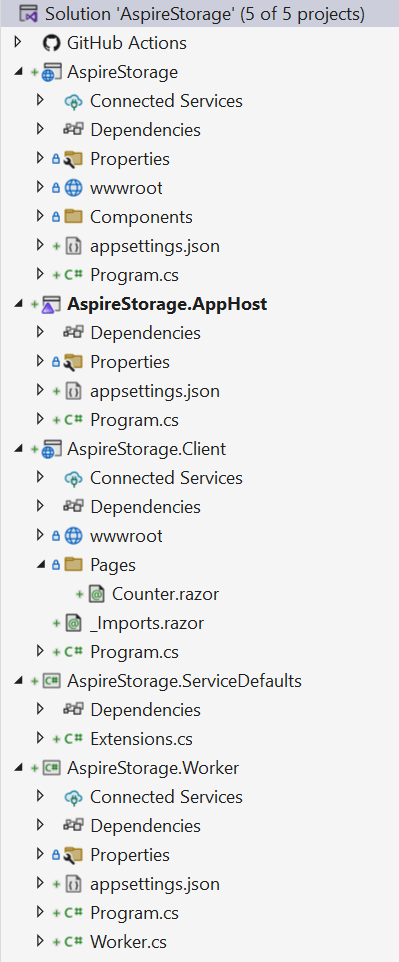
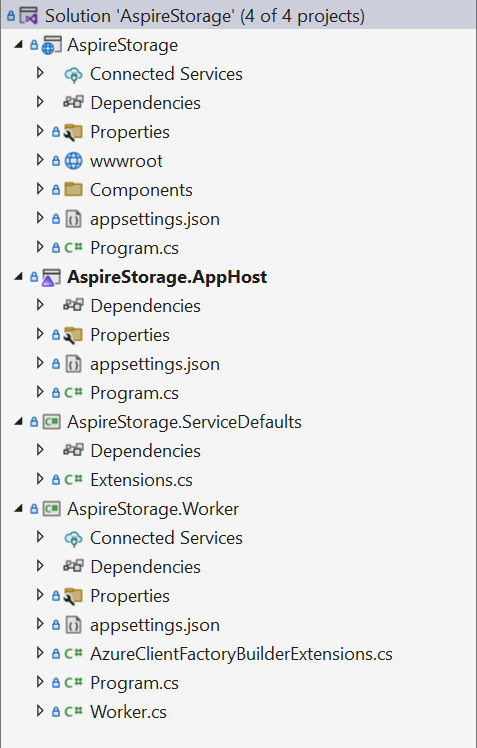
More updates, let's see where we are

Changed region(s): [[0.0, 0.0, 1.0, 1.0]]

diff --git a/docs/storage/snippets/tutorial/AspireStorage/AspireStorage/Program.cs b/docs/storage/snippets/tutorial/AspireStorage/AspireStorage/Program.cs
@@ -1,6 +1,11 @@
-using AspireStorage.Components;
+using AspireStorage.Components;
+using Azure.Storage.Blobs;
+using Azure.Storage.Queues;
 
 var builder = WebApplication.CreateBuilder(args);
+
+builder.AddAzureBlobService("BlobConnection");
+builder.AddAzureQueueService("QueueConnection");
 
 builder.AddServiceDefaults();
 
@@ -16,8 +21,22 @@ app.MapDefaultEndpoints();
 if (!app.Environment.IsDevelopment())
 {
     app.UseExceptionHandler("/Error", createScopeForErrors: true);
-    // The default HSTS value is 30 days. You may want to change this for production scenarios, see https://aka.ms/aspnetcore-hsts.
+    // The default HSTS value is 30 days. You may want to change this for production
+    // scenarios, see https://aka.ms/aspnetcore-hsts.
     app.UseHsts();
+}
+else
+{
+    // In development, create the blob container and queue if they don't exist.
+    var blobService = app.Services.GetRequiredService<BlobServiceClient>();
+    var docsContainer = blobService.GetBlobContainerClient("fileuploads");
+
+    await docsContainer.CreateIfNotExistsAsync();
+
+    var queueService = app.Services.GetRequiredService<QueueServiceClient>();
+    var queueClient = queueService.GetQueueClient("tickets");
+
+    await queueClient.CreateIfNotExistsAsync();
 }
 
 app.UseHttpsRedirection();

diff --git a/docs/storage/snippets/tutorial/AspireStorage/AspireStorage.AppHost/Program.cs b/docs/storage/snippets/tutorial/AspireStorage/AspireStorage.AppHost/Program.cs
@@ -19,4 +19,5 @@ builder.AddProject<Projects.AspireStorage>("aspirestorage")
 builder.AddProject<Projects.AspireStorage_Worker>("aspirestorage.worker")
     .WithReference(queues);
 
-builder.Build().Run();
+var app = builder.Build();
+app.Run();

diff --git a/docs/storage/azure-storage.md b/docs/storage/azure-storage.md
@@ -1,7 +1,7 @@
 ---
 title: Connect an ASP.NET Core app to .NET Aspire storage components
 description: Learn how to connect an ASP.NET Core app to .NET Aspire storage components.
-ms.date: 11/30/2023
+ms.date: 12/01/2023
 ms.topic: tutorial
 zone_pivot_groups: azure-storage-mechanism
 ---
@@ -75,13 +75,8 @@ You also need to assign the following roles to the user account you are logged i
 
 Visual Studio creates a new ASP.NET Core solution that is structured to use .NET Aspire. The solution consists of the following projects:
 
-- **AspireStorage**: A Blazor project directory that contains the following projects:
-
-  - **AspireStorage**: The Blazor project.
-  - **AspireStorage.Client**: The Blazor WebAssembly client project.
-
+- **AspireStorage**: A Blazor project that depends on service defaults.
 - **AspireStorage.AppHost**: An orchestrator project designed to connect and configure the different projects and services of your app. The orchestrator should be set as the startup project.
-
 - **AspireStorage.ServiceDefaults**: A shared class library to hold configurations that can be reused across the projects in your solution.
 
 ### Add the Worker Service project
@@ -120,12 +115,12 @@ In the _Program.cs_ file of the _AspireStorage_ project, add calls to the <xref:
 
 :::zone pivot="azurite"
 
-:::code source="snippets/tutorial/AspireStorage/AspireStorage/AspireStorage/Program.cs" highlight="3-4,8-9,27-33":::
+:::code source="snippets/tutorial/AspireStorage/AspireStorage/Program.cs" highlight="2-3,7-8,30-39":::
 
 :::zone-end
 :::zone pivot="azure-portal,azure-cli"
 
-:::code source="snippets/tutorial/AspireStorage/AspireStorage/AspireStorage/Program.cs" range="1-25,34-52" highlight="3-4,8-9":::
+:::code source="snippets/tutorial/AspireStorage/AspireStorage/AspireStorage/Program.cs" range="1-27,41-50" highlight="2-3,7-8":::
 
 :::zone-end
 
@@ -176,17 +171,19 @@ In the _appsettings.json_ file of the _AspireStorage.Worker_ project, add the co
 
 ## Create the form
 
-The application requires a form for the user to be able to submit support ticket information and upload an attachment. The app uploads the attached file on the `Document` property to Azure Blob Storage using the injected <xref:Azure.Storage.Blobs.BlobServiceClient?displayProperty=fullName>. The <xref:Azure.Storage.Queues.QueueServiceClient?displayProperty=fullName> sends a message composed of the `Title` and `Description` to the Azure Storage Queue.
+The app requires a form for the user to be able to submit support ticket information and upload an attachment. The app uploads the attached file on the `Document` property to Azure Blob Storage using the injected <xref:Azure.Storage.Blobs.BlobServiceClient>. The <xref:Azure.Storage.Queues.QueueServiceClient> sends a message composed of the `Title` and `Description` to the Azure Storage Queue.
 
 Use the following Razor markup to create a basic form, replacing the contents of the _Home.razor_ file in the _AspireStorage/Components/Pages_ directory:
 
-:::code language="razor" source="snippets/tutorial/AspireStorage/AspireStorage/AspireStorage/Components/Pages/Home.razor":::
+:::code language="razor" source="snippets/tutorial/AspireStorage/AspireStorage/Components/Pages/Home.razor":::
 
-:::zone pivot="azurite"
+For more information about creating forms in Blazor, see [ASP.NET Core Blazor forms overview](/aspnet/core/blazor/forms).
 
 ## Update the AppHost
 
 The _AspireStorage.AppHost_ project is the orchestrator for your app. It's responsible for connecting and configuring the different projects and services of your app. The orchestrator should be set as the startup project.
+
+:::zone pivot="azurite"
 
 Add the [Aspire.Hosting.Azure](https://www.nuget.org/packages/Aspire.Hosting.Azure) NuGet package to your _AspireStorage.AppHost_ project:
 
@@ -194,11 +191,22 @@ Add the [Aspire.Hosting.Azure](https://www.nuget.org/packages/Aspire.Hosting.Azu
 dotnet add package Aspire.Hosting.Azure --prerelease
 ```
 
-Next, replace the contents of the _Program.cs_ file in the _AspireStorage.AppHost_ project with the following code:
+:::zone-end
+
+Replace the contents of the _Program.cs_ file in the _AspireStorage.AppHost_ project with the following code:
+
+:::zone pivot="azurite"
 
 :::code source="snippets/tutorial/AspireStorage/AspireStorage.AppHost/Program.cs":::
 
-The preceding code adds Azure storage, blobs, and queues, and when in development mode, it uses the emulator.
+The preceding code adds Azure storage, blobs, and queues, and when in development mode, it uses the emulator. Each project defines references for these resources that they depend on.
+
+:::zone-end
+:::zone pivot="azure-portal,azure-cli"
+
+:::code source="snippets/tutorial/AspireStorage/AspireStorage.AppHost/Program.cs" range="1-5,11-23:::
+
+The preceding code adds Azure storage, blobs, and queues, and defines references for these resources within each project that depend on them.
 
 :::zone-end
 
@@ -210,21 +218,25 @@ When a new message is placed on the `tickets` queue, the worker service should r
 
 :::code source="snippets/tutorial/AspireStorage/AspireStorage.Worker/Worker.cs":::
 
-Before the worker service can process messages, it needs to be able to connect to the Azure Storage queue. With Azurite, you need to ensure that the queue is available before the worker service starts executing messaging queue processing.
+Before the worker service can process messages, it needs to be able to connect to the Azure Storage queue. With Azurite, you need to ensure that the queue is available before the worker service starts executing message queue processing.
 
 :::zone-end
 :::zone pivot="azure-portal,azure-cli"
 
 :::code source="snippets/tutorial/AspireStorage/AspireStorage.Worker/Worker.cs" range="1-11,15-37":::
 
+The worker service processes messages by connecting to the Azure Storage queue, and pulling messages off the queue.
+
 :::zone-end
+
+The worker service processes message in the queue and deletes them when they've been processed.
 
 ## Run and test the app locally
 
 The sample app is now ready for testing. Verify that the submitted form data is sent to Azure Blob Storage and Azure Queue Storage by completing the following steps:
 
 1. Press the run button at the top of Visual Studio to launch your .NET Aspire app dashboard in the browser.
-1. On the projects page, in the **asireweb** row, click the link in the **Endpoints** column to open the UI of your app.
+1. On the projects page, in the **aspirestorage** row, click the link in the **Endpoints** column to open the UI of your app.
 
     :::image type="content" source="../media/support-app.png" alt-text="A screenshot showing the home page of the .NET Aspire support application.":::
 
@@ -232,8 +244,21 @@ The sample app is now ready for testing. Verify that the submitted form data is 
 1. Press submit, and the page should reload.
 1. In a separate browser tab, use the Azure portal to navigate to the **Storage browser** in your Azure Storage Account.
 1. Select **Containers** and then navigate into the **Documents** container to see the uploaded file.
-1. You can verify the message on the queue was processed by searching for the **Message Processed** log from the the worker service in the Visual Studio output window.
+1. You can verify the message on the queue was processed by looking at the **Project logs** of the [.NET Aspire dashboard](../dashboard.md).
 
     :::image type="content" source="../media/queue-output.png" alt-text="A screenshot showing the console output of the Worker app.":::
 
-Congratulations! You created and configured an ASP.NET Core app app that connects to Azure Storage using .NET Aspire components.
+## Summary
+
+The example app that you built demonstrates persisting blobs from an ASP.NET Core Blazor Web App and processing queues in a [.NET Worker Service](/dotnet/core/extensions/workers). Your app connects to Azure Storage using .NET Aspire components. The app sends the support tickets to a queue for processing and uploads an attachment to storage.
+
+:::zone pivot="azurite"
+
+Since you choose to use Azurite, there's no need to clean up these resources when you're done testing them, as you created them locally in the context of an emulator. The emulator enabled you to test your app locally without incurring any costs, as no Azure resources were provisioned or created.
+
+:::zone-end
+:::zone pivot="azure-portal,azure-cli"
+
+Don't forget to clean up any Azure resources when you're done testing them.
+
+:::zone-end
